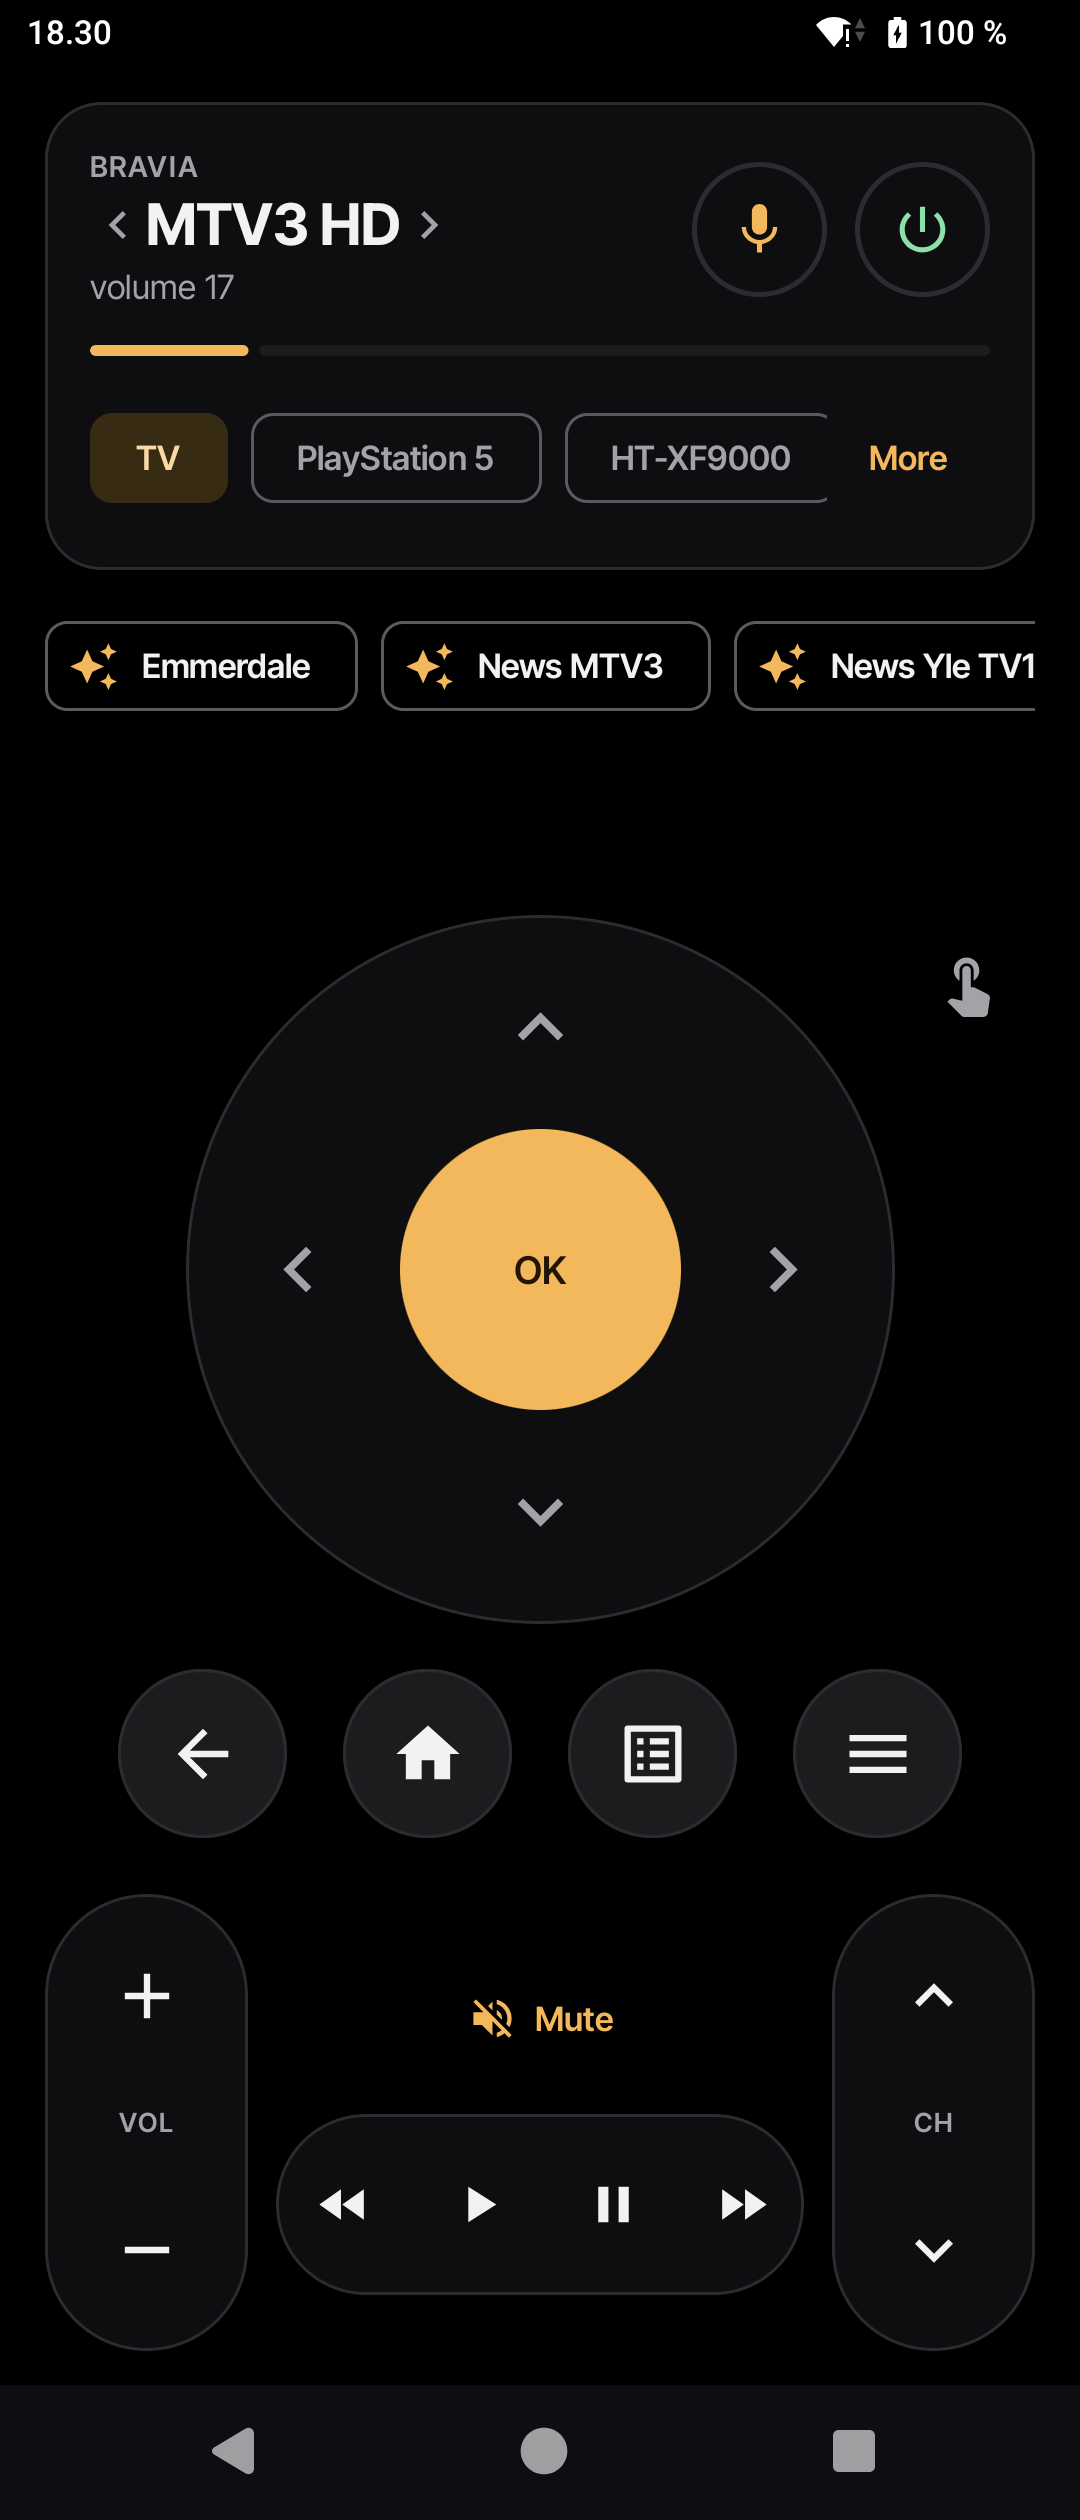
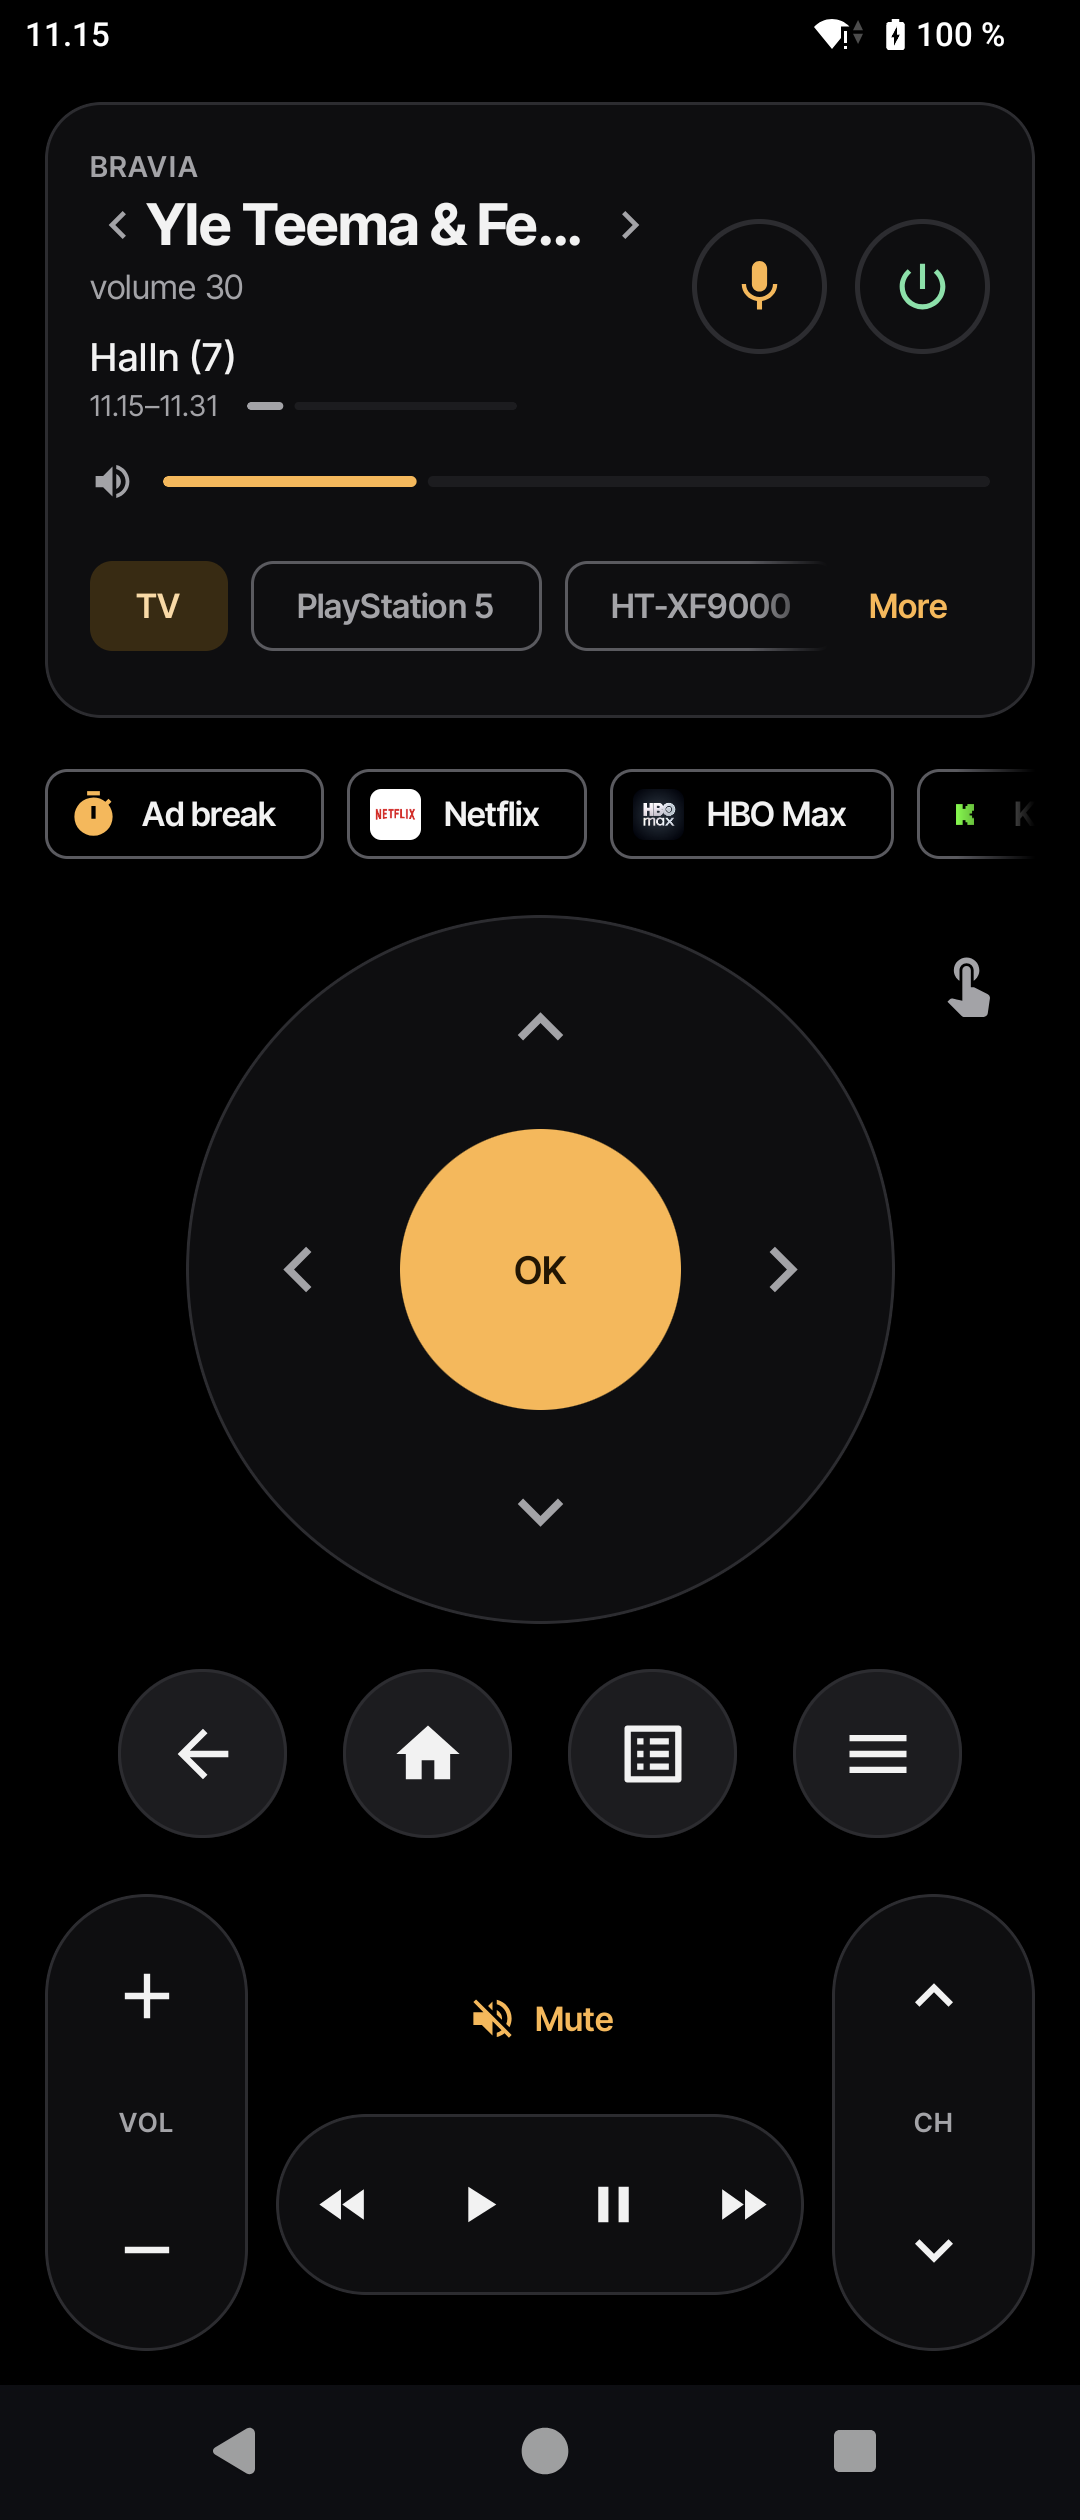
Release 1.4.0: Ad break
Version 1.4.0 (versionCode 8). Changelogs 8 in en-US and fi-FI; Ad break in
the store descriptions, README, site (card tile, JSON-LD features), llms
files and AGENTS. Store screenshots 1, 2 and 7 and the feature graphic
recaptured with the Ad break chip and the programme on the card (en, fi);
site remote image and card crop to match. PLAY_CONSOLE: first Play upload is
versionCode 8; promo videos still to re-record (VIDEO.md).

diff --git a/site/index.html b/site/index.html
@@ -45,7 +45,7 @@
       "applicationCategory": "UtilitiesApplication",
       "applicationSubCategory": "TV remote control",
       "operatingSystem": "Android 8.0 or newer",
-      "softwareVersion": "1.3.0",
+      "softwareVersion": "1.4.0",
       "inLanguage": [
         "en",
         "fi"
@@ -73,6 +73,7 @@
         "Fast keys over the TV's Android TV Remote protocol: D-pad, volume and channels in tens of milliseconds",
         "Touchpad mode: swipe to move, tap for OK, rest the finger to keep moving",
         "Swipe the card to change channel; jump back to the previous channel",
+        "Ad break: mute the commercials with one tap; the sound comes back by itself",
         "The TV's inputs, installed apps and channel list; pin apps as one-tap buttons and launcher shortcuts",
         "Type or dictate into the TV's search box; voice commands in Finnish and English",
         "Scenes and scheduled scenes (they act only while the TV is on)",
@@ -222,7 +223,7 @@
       <div class="hero-device">
         <div class="device">
           <div class="device-screen">
-            <img src="img/remote-540.webp" srcset="img/remote-540.webp 540w, img/remote-1080.webp 1080w" sizes="(min-width: 900px) 290px, 78vw" width="540" height="1260" alt="The remote screen: the channel card showing Jim HD at volume 24, scene buttons, the D-pad, and volume and channel controls">
+            <img src="img/remote-540.webp" srcset="img/remote-540.webp 540w, img/remote-1080.webp 1080w" sizes="(min-width: 900px) 290px, 78vw" width="540" height="1260" alt="The remote screen: the channel card showing Yle Teema &amp; Fem HD at volume 30 with the programme on now, the Ad break button and pinned apps, the D-pad, and volume and channel controls">
           </div>
         </div>
         <p class="callout c1" aria-hidden="true"><i><svg width="18" height="18" viewBox="0 0 24 24" fill="currentColor"><path d="M12 2.5 13.9 9l6.6 1.9-6.6 1.9L12 19.4l-1.9-6.6L3.5 10.9 10.1 9z"/></svg></i><span><b>Emmerdale</b>MTV3 at 18.30</span></p>
@@ -245,8 +246,8 @@
       </article>
       <article class="tile card reveal">
         <h3 class="h3">Swipe the card to change channel</h3>
-        <p>The card shows what's on and the volume. Swipe it for the next channel, and jump back to the previous one with a tap.</p>
-        <div class="media"><img src="img/crops/card.webp" width="720" height="445" loading="lazy" alt="The channel card: Jim HD at volume 24, with inputs TV, PlayStation 5 and HT-XF9000, and scene buttons Emmerdale, News MTV3 and News Yle TV1"></div>
+        <p>The card shows what's on and the volume. Swipe it for the next channel, and jump back to the previous one with a tap. When the commercials start, tap Ad break: the sound goes off and comes back by itself.</p>
+        <div class="media"><img src="img/crops/card.webp" width="720" height="551" loading="lazy" alt="The channel card: Yle Teema &amp; Fem HD at volume 30 with the programme on now, inputs TV, PlayStation 5 and HT-XF9000, and below it the Ad break button and pinned apps"></div>
       </article>
       <article class="tile pad-tile reveal">
         <h3 class="h3">Touchpad mode</h3>
@@ -350,7 +351,7 @@
       </div>
     </div>
     <ul class="strip" id="strip" tabindex="0" aria-label="Screenshots, scroll sideways for more">
-      <li><figure><div class="device"><div class="device-screen"><img src="img/remote-540.webp" srcset="img/remote-540.webp 540w, img/remote-1080.webp 1080w" sizes="240px" width="540" height="1260" loading="lazy" alt="Remote screen with the channel card, scene buttons, D-pad and volume and channel controls"></div></div><figcaption><b>The remote</b><span>Card, scenes, D-pad</span></figcaption></figure></li>
+      <li><figure><div class="device"><div class="device-screen"><img src="img/remote-540.webp" srcset="img/remote-540.webp 540w, img/remote-1080.webp 1080w" sizes="240px" width="540" height="1260" loading="lazy" alt="Remote screen with the channel card, the Ad break button, D-pad and volume and channel controls"></div></div><figcaption><b>The remote</b><span>Card, scenes, D-pad</span></figcaption></figure></li>
       <li><figure><div class="device"><div class="device-screen"><img src="img/inputs-apps-540.webp" srcset="img/inputs-apps-540.webp 540w, img/inputs-apps-1080.webp 1080w" sizes="240px" width="540" height="1260" loading="lazy" alt="The TV's inputs and installed apps, each with its icon"></div></div><figcaption><b>Inputs and apps</b><span>With their icons</span></figcaption></figure></li>
       <li><figure><div class="device"><div class="device-screen"><img src="img/channels-540.webp" srcset="img/channels-540.webp 540w, img/channels-1080.webp 1080w" sizes="240px" width="540" height="1260" loading="lazy" alt="The channel list, with Nelonen HD ticked"></div></div><figcaption><b>Channels</b><span>The full list</span></figcaption></figure></li>
       <li><figure><div class="device"><div class="device-screen"><img src="img/scenes-540.webp" srcset="img/scenes-540.webp 540w, img/scenes-1080.webp 1080w" sizes="240px" width="540" height="1260" loading="lazy" alt="Scenes with their weekday schedules"></div></div><figcaption><b>Scenes</b><span>One tap, or on a schedule</span></figcaption></figure></li>

diff --git a/site/tools/seo.py b/site/tools/seo.py
@@ -21,6 +21,7 @@ FEATURES = [
     "Fast keys over the TV's Android TV Remote protocol: D-pad, volume and channels in tens of milliseconds",
     "Touchpad mode: swipe to move, tap for OK, rest the finger to keep moving",
     "Swipe the card to change channel; jump back to the previous channel",
+    "Ad break: mute the commercials with one tap; the sound comes back by itself",
     "The TV's inputs, installed apps and channel list; pin apps as one-tap buttons and launcher shortcuts",
     "Type or dictate into the TV's search box; voice commands in Finnish and English",
     "Scenes and scheduled scenes (they act only while the TV is on)",
@@ -53,7 +54,7 @@ def json_ld(page):
         "applicationCategory": "UtilitiesApplication",
         "applicationSubCategory": "TV remote control",
         "operatingSystem": "Android 8.0 or newer",
-        "softwareVersion": "1.3.0",
+        "softwareVersion": "1.4.0",
         "inLanguage": ["en", "fi"],
         "isAccessibleForFree": True,
         "license": "https://www.gnu.org/licenses/gpl-3.0.html",

diff --git a/fastlane/PLAY_CONSOLE.md b/fastlane/PLAY_CONSOLE.md
@@ -1,6 +1,6 @@
 # Play Console checklist: Sohva Remote
 
-The answers below match the code as of 1.3.0 (versionCode 7).
+The answers below match the code as of 1.4.0 (versionCode 8).
 
 ## 0. Status
 
@@ -13,11 +13,10 @@ Finnish UI. Still open, outside the repo:
 - **Promo video**: upload `fastlane/video/promo-<locale>.mp4` to YouTube (unlisted, embeddable, no ads)
   and put the URLs in `metadata/android/<locale>/video.txt`. Optional for the listing.
 - **Organization account** verification (D-U-N-S, address, phone).
-- **Store screenshots 1, 2 and 7** (remote, touchpad) were captured before 1.1.0 and show neither the
-  programme line nor the touchpad rails; recapture `tools/shots/<locale>/remote.png` and
-  `touchpad.png` (demo mode, 18:30 with MTV3 on) and run `tools/render.py`.
-- **Promo videos** (`fastlane/video/`) show the half-height sheet and scrolling tab row of 1.1.0:
-  re-record them (`tools/record_promo.sh`, `tools/promo.py`) with the screenshots before uploading.
+- **Promo videos** (`fastlane/video/`) show the half-height sheet and scrolling tab row of 1.1.0, and
+  no Ad break: re-record them when the TV is free (`tools/record_promo.sh` presses TV keys; re-measure
+  its taps, since the chip row now starts with Ad break) and compose with `tools/promo.py` before
+  uploading. The store screenshots are current as of 1.4.0.
 
 ## 1. App details (Grow > Store presence > Main store listing)
 
@@ -134,7 +133,8 @@ No / None / No.
 - **Exact alarms**: the app declares `SCHEDULE_EXACT_ALARM` only, so there is no declaration form; the
   user grants "Alarms & reminders" in system settings (the Timers and Scenes tabs link there). If
   review asks anyway: "Wake-up TV turns the user's TV on at a user-set time (an alarm clock for the
-  TV); the sleep timer turns it off at a user-set time; both must fire on time with the app closed."
+  TV); the sleep timer turns it off at a user-set time; Ad break brings the TV's sound back after the
+  commercials. All must fire on time with the app closed."
 - **READ_PHONE_STATE**: not a Play "restricted permission" (that is the SMS/Call Log group), so there
   is no Permissions Declaration form. It is a runtime permission asked only when the user turns on
   "Mute the TV during calls". Mention it in the privacy policy.
@@ -177,8 +177,8 @@ No / None / No.
       crash on the first-run / no-TV path).
 - [ ] Store listing: upload `icon.png`, `featureGraphic.png`, `phoneScreenshots/1-7.png` for en-US and
       fi-FI (or `fastlane supply --skip_upload_apk --skip_upload_aab`).
-- [ ] Release notes from `changelogs/<versionCode>.txt` (the first Play upload is versionCode 7,
-      `changelogs/7.txt`; 3-6 went out only as GitHub APKs).
+- [ ] Release notes from `changelogs/<versionCode>.txt` (the first Play upload is versionCode 8,
+      `changelogs/8.txt`; 3-7 went out only as GitHub APKs).
 - [ ] Countries: Finland first (plus the Nordics/EU if wanted). The app works anywhere with a Bravia.
 - [ ] Optional: promo video URL in `video.txt` (see `fastlane/VIDEO.md`).
 - [ ] After approval: staged rollout (e.g. 20%) and watch Android vitals for ANRs/crashes.

diff --git a/README.md b/README.md
@@ -16,7 +16,7 @@ control should work too. No cloud, no account, no analytics. Not affiliated with
 kaukosäädin Sony Bravia -televisioille).
 
 <p>
-  <img src="site/img/remote.png" width="200" alt="The remote screen: channel card, scene chips, D-pad, volume and channel rockers">
+  <img src="site/img/remote.png" width="200" alt="The remote screen: channel card, Ad break and pinned-app chips, D-pad, volume and channel rockers">
   <img src="site/img/inputs-apps.png" width="200" alt="More sheet: the TV's inputs and installed apps">
   <img src="site/img/timers.png" width="200" alt="Timers: sleep timer with volume fade, and the wake-up TV">
   <img src="site/img/scenes.png" width="200" alt="Scenes: one-tap and scheduled setups">
@@ -35,6 +35,9 @@ kaukosäädin Sony Bravia -televisioille).
   beside the D-pad switches between the two.
 - The card shows what's on (channel or app); swipe it to change channel. "Jump back"
   chip returns to the channel watched before.
+- Ad break: one tap mutes the commercials and the sound comes back by itself after 3 minutes
+  ("+1 min" for a long break), also with the app closed. Watch another channel meanwhile and the
+  end of the break brings you back.
 - Pin apps (long-press in Sources): one-tap chips under the card and launcher
   shortcuts (long-press the app icon).
 - More sheet: the TV's inputs, installed apps (icons cached on the phone), the channel
@@ -93,7 +96,7 @@ for a second, one-time PIN from the TV's Android TV Remote service.
 | Permission | Why |
 |---|---|
 | `INTERNET`, `ACCESS_NETWORK_STATE`, `ACCESS_WIFI_STATE`, `CHANGE_WIFI_MULTICAST_STATE` | Talk to the TV on the LAN and find it with SSDP. |
-| `SCHEDULE_EXACT_ALARM` | Sleep timer, wake-up and scheduled scenes on time, also in Doze. On Android 12+ you allow it in settings; the Timers and Scenes tabs link there. |
+| `SCHEDULE_EXACT_ALARM` | Sleep timer, ad break, wake-up and scheduled scenes on time, also in Doze. On Android 12+ you allow it in settings; the Timers and Scenes tabs link there. |
 | `FOREGROUND_SERVICE`, `WAKE_LOCK` | Keep the phone awake for the minute a timer needs to reach the TV. |
 | `RECEIVE_BOOT_COMPLETED` | Set the alarms again after a restart. |
 | `READ_PHONE_STATE` | Only for "Mute during calls", asked when you switch it on. |

diff --git a/AGENTS.md b/AGENTS.md
@@ -77,6 +77,10 @@ Play only allows `USE_EXACT_ALARM` for alarm/calendar apps, so the app uses the 
   letting the process go (`press()` returns a `Deferred`; receivers use `goAsync()`). Android
   firewalls a cached app (`APP_BACKGROUND` in `dumpsys netpolicy`) and destroys its sockets, so
   `awaitSession()` evicts OkHttp's pool; a reused socket fails with "Software caused connection abort".
+- Ad break (`AdBreak`) never toggles mute: it unmutes only a mute it made and still holds
+  (`AdBreakState.mutedByUs`). Unmuting by hand, a mute with the TV's own remote and a phone call
+  (`CallMuteReceiver` takes the break's mute over first) all take it away. An exact alarm ends the
+  break with the app closed; an end the TV doesn't answer is retried, and a break belongs to its TV.
 - The sleep timer only ever turns the TV off (`setPowerStatus(false)`, then the discrete PowerOff
   key), never the toggling Power key: it must not wake a TV someone already switched off.
 - Wake-up and scenes go through `TvController.ensureOn()`. A live process's state can be stale (the

diff --git a/fastlane/VIDEO.md b/fastlane/VIDEO.md
@@ -4,6 +4,9 @@
 captions burned in, end card). Made with `tools/record_promo.sh` (scripted phone recording, with
 System UI demo mode at 18:30) and `tools/promo.py` (frames, captions, end card; ffmpeg from the
 `imageio-ffmpeg` pip package works). Voice was left out: speech can't be scripted over adb.
+**Out of date since 1.1.0** (the More sheet's layout) **and 1.4.0** (Ad break): re-record before
+uploading, when the TV is free. Add an Ad break shot after the scene chip: tap Ad break, the card
+shows "muted" and the chip counts down; tap the countdown to bring the sound back.
 **To publish:** upload each to YouTube as Unlisted, embedding on, monetisation off, not "made for
 kids"; put the URL in `metadata/android/<locale>/video.txt`.
 
